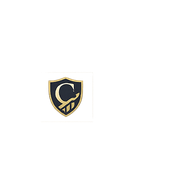
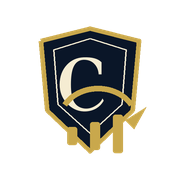
deploy

diff --git a/thank-you.html b/thank-you.html
@@ -10,16 +10,15 @@
 <link rel="apple-touch-icon" href="assets/apple-touch-icon.png">
 <link rel="preconnect" href="https://fonts.googleapis.com">
 <link rel="preconnect" href="https://fonts.gstatic.com" crossorigin>
-<link href="https://fonts.googleapis.com/css2?family=Playfair+Display:wght@600;700&family=DM+Sans:wght@400;500;600&display=swap" rel="stylesheet">
+<link href="https://fonts.googleapis.com/css2?family=Playfair+Display:wght@600;700&family=DM+Sans:wght@400;500;600;700&display=swap" rel="stylesheet">
 <style>
-:root{--navy:#0a1628;--gold:#c9a84c;--gold-light:#e8c878;--cream:#faf8f4}
-*{box-sizing:border-box}body{margin:0;min-height:100vh;font-family:'DM Sans',sans-serif;background:radial-gradient(circle at top,#273650 0%,var(--navy) 44%,#050a13 100%);color:white;display:flex;align-items:center;justify-content:center;padding:32px}.thank-card{width:min(900px,100%);text-align:center;padding:44px 28px;border:1px solid rgba(201,168,76,.28);border-radius:28px;background:rgba(255,255,255,.06);box-shadow:0 30px 90px rgba(0,0,0,.35);backdrop-filter:blur(12px)}.thank-image{width:min(430px,100%);border-radius:22px;box-shadow:0 24px 70px rgba(0,0,0,.30);margin-bottom:22px}.shield{width:86px;margin:0 auto 12px;display:block;border-radius:12px}h1{font-family:'Playfair Display',serif;color:var(--gold-light);font-size:clamp(38px,7vw,74px);margin:10px 0 12px;line-height:1}p{max-width:650px;margin:0 auto 24px;color:rgba(255,255,255,.78);font-size:18px;line-height:1.65}.buttons{display:flex;gap:14px;justify-content:center;flex-wrap:wrap;margin-top:26px}.btn{display:inline-block;padding:14px 24px;border-radius:999px;text-decoration:none;font-weight:700}.btn-primary{background:var(--gold);color:var(--navy)}.btn-secondary{border:1px solid rgba(201,168,76,.55);color:var(--gold-light)}.mini{font-size:13px;color:rgba(255,255,255,.5);margin-top:28px}
+:root{--navy:#0a1628;--gold:#c9a84c;--gold-light:#e8c878;--cream:#faf8f4}*{box-sizing:border-box}body{margin:0;min-height:100vh;font-family:'DM Sans',sans-serif;background:radial-gradient(circle at top,#273650 0%,var(--navy) 48%,#050a13 100%);color:white;display:flex;align-items:center;justify-content:center;padding:28px}.thank-card{width:min(820px,100%);text-align:center;padding:46px 28px;border:1px solid rgba(201,168,76,.30);border-radius:28px;background:rgba(255,255,255,.055);box-shadow:0 30px 90px rgba(0,0,0,.35);backdrop-filter:blur(12px)}.brand-logo{width:min(520px,100%);height:auto;margin:0 auto 22px;display:block}.eyebrow{color:var(--gold-light);font-weight:700;letter-spacing:.14em;text-transform:uppercase;margin:8px 0 12px;font-size:14px}h1{font-family:'Playfair Display',serif;color:var(--cream);font-size:clamp(44px,8vw,82px);margin:0 0 16px;line-height:1;text-shadow:0 3px 18px rgba(0,0,0,.32)}p{max-width:650px;margin:0 auto 26px;color:rgba(255,255,255,.82);font-size:18px;line-height:1.65}.buttons{display:flex;gap:14px;justify-content:center;flex-wrap:wrap;margin-top:28px}.btn{display:inline-block;padding:14px 24px;border-radius:999px;text-decoration:none;font-weight:800}.btn-primary{background:var(--gold);color:var(--navy)}.btn-secondary{border:1px solid rgba(201,168,76,.60);color:var(--gold-light)}.mini{font-size:13px;color:rgba(255,255,255,.55);margin-top:28px}@media(max-width:560px){.thank-card{padding:34px 20px}.brand-logo{width:100%}p{font-size:16px}.buttons{flex-direction:column}.btn{width:100%}}
 </style>
 </head>
 <body>
   <main class="thank-card">
-    <img src="assets/logos/classique-thank-you-card.png" alt="Thank You — Classique Insurance Group LLC" class="thank-image">
-    <img src="assets/logos/classique-shield-icon.png" alt="Classique shield" class="shield">
+    <img src="assets/logos/classique-primary-logo.png" alt="Classique Insurance Group LLC" class="brand-logo">
+    <div class="eyebrow">Message Received</div>
     <h1>Thank You</h1>
     <p>Your inquiry has been received successfully. A licensed Classique Insurance professional will review your information and contact you shortly.</p>
     <div class="buttons">

diff --git a/styles.css b/styles.css
@@ -898,10 +898,10 @@ footer {
 
 /* ─── Brand Logo Additions ─── */
 .nav-logo { display:flex; align-items:center; min-width:185px; }
-.nav-logo-img { height:48px; width:auto; display:block; object-fit:contain; filter: drop-shadow(0 4px 12px rgba(0,0,0,.25)); }
+.nav-logo-img { height:54px; width:auto; max-width:340px; display:block; object-fit:contain; filter: drop-shadow(0 4px 12px rgba(0,0,0,.25)); }
 nav.scrolled .nav-logo-img { height:42px; }
-.hero-brand-logo { display:block; width:min(420px, 100%); max-height:220px; object-fit:contain; margin:14px 0 22px; border-radius:18px; box-shadow:0 24px 70px rgba(0,0,0,.25); }
-.contact-form-logo { display:block; width:100%; max-width:360px; height:auto; margin:0 auto 16px; border-radius:12px; box-shadow:0 14px 36px rgba(10,22,40,.10); }
+.hero-brand-logo { display:block; width:min(520px, 100%); max-height:260px; object-fit:contain; margin:14px 0 22px; background:transparent; border-radius:0; box-shadow:none; }
+.contact-form-logo { display:block; width:100%; max-width:360px; height:auto; max-height:120px; object-fit:contain; margin:0 auto 18px; background:transparent; border-radius:0; box-shadow:none; }
 .footer-shield { width:82px; height:auto; display:block; margin:0 auto 16px; border-radius:14px; box-shadow:0 12px 32px rgba(0,0,0,.20); }
 .hidden-field { display:none !important; }
 @media (max-width: 900px) {
